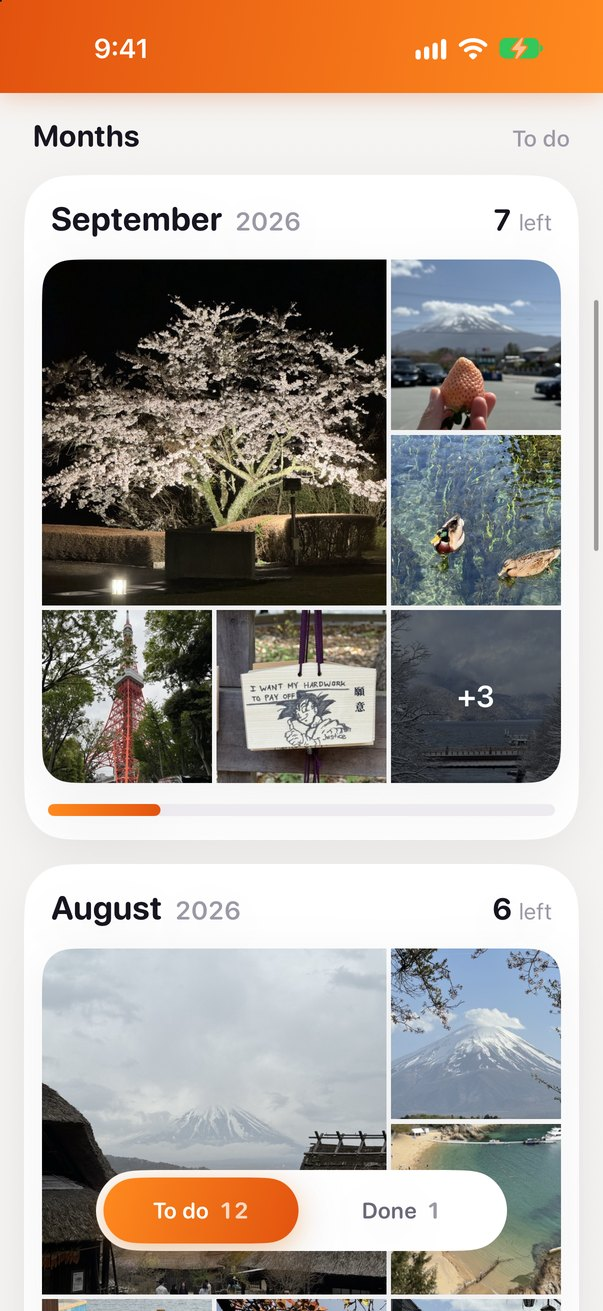
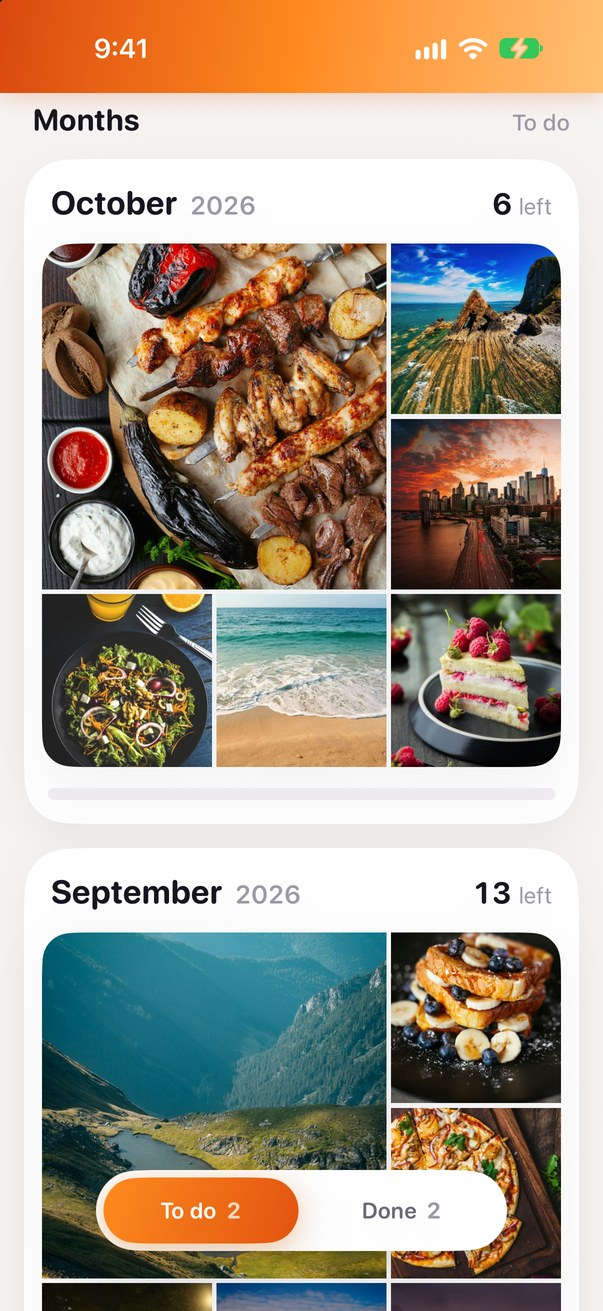
Marketing shots from the stock-only simulator, Unsplash credits
All README screenshots, the palettes strip and the four landing-page shots
(new v18-*) are retaken on the 'iPhone 18 Pro Marketing' simulator, which
holds only Unsplash photos and neutral albums (Trips, Views, Food). The old
palettes strip still showed a private album name. v16/v17 shots stay in git
but are kept off the live site. NOTICE.md lists the 39 photographers.

diff --git a/site/index.html b/site/index.html
@@ -303,10 +303,10 @@
     <div class="wrap">
       <h2 class="sec-title reveal">Have a look <em>inside.</em></h2>
       <div class="shots">
-        <div class="shot reveal-up"><div class="word">Months.</div><div class="mini tilt"><img src="img/v16-months.jpg" alt="The library, split into months" loading="lazy"></div></div>
-        <div class="shot reveal-up"><div class="word">Swipe.</div><div class="mini tilt"><img src="img/v17-swipe.jpg" alt="Swiping through an album" loading="lazy"></div></div>
-        <div class="shot reveal-up"><div class="word">Review.</div><div class="mini tilt"><img src="img/v16-review.jpg" alt="The review grid before deleting" loading="lazy"></div></div>
-        <div class="shot reveal-up"><div class="word">Albums.</div><div class="mini tilt"><img src="img/v17-album.jpg" alt="An emoji album of views" loading="lazy"></div></div>
+        <div class="shot reveal-up"><div class="word">Months.</div><div class="mini tilt"><img src="img/v18-months.jpg" alt="The library, split into months" loading="lazy"></div></div>
+        <div class="shot reveal-up"><div class="word">Swipe.</div><div class="mini tilt"><img src="img/v18-swipe.jpg" alt="Swiping through an album of views" loading="lazy"></div></div>
+        <div class="shot reveal-up"><div class="word">Review.</div><div class="mini tilt"><img src="img/v18-review.jpg" alt="The review grid before deleting" loading="lazy"></div></div>
+        <div class="shot reveal-up"><div class="word">Albums.</div><div class="mini tilt"><img src="img/v18-album.jpg" alt="An emoji album of views" loading="lazy"></div></div>
       </div>
     </div>
   </section>
@@ -345,6 +345,7 @@
 <footer>
   <div class="wrap">
     <span>Made by <a href="https://www.warrenlimzf.com/" target="_blank" rel="noopener">Warren Lim</a> with Claude Code.</span>
+    <span>Demo photos from <a href="https://github.com/warrenlimzf/photo-swipe/blob/main/NOTICE.md" target="_blank" rel="noopener">Unsplash photographers</a>.</span>
     <a href="https://github.com/warrenlimzf/photo-swipe" target="_blank" rel="noopener">github.com/warrenlimzf/photo-swipe</a>
   </div>
 </footer>

diff --git a/NOTICE.md b/NOTICE.md
@@ -1,0 +1,51 @@
+# Notice
+
+## Demo photos
+
+Every photo in the README screenshots (`docs/screenshots/`) and on the landing page (`site/img/photos/`, `site/img/v18-*`) comes from [Unsplash](https://unsplash.com) and is used under the [Unsplash License](https://unsplash.com/license), which allows free commercial and non-commercial use. None of them are the author's own photos. They were cropped to 3:4 and loaded into a test iPhone simulator to take the screenshots.
+
+Thanks to the 39 photographers:
+
+- [@_katishna_](https://unsplash.com/@_katishna_)
+- [@alvannee](https://unsplash.com/@alvannee)
+- [@alxndr_london](https://unsplash.com/@alxndr_london)
+- [@anna_tukhfatullina](https://unsplash.com/@anna_tukhfatullina)
+- [@baptiststandaert](https://unsplash.com/@baptiststandaert)
+- [@briewilly](https://unsplash.com/@briewilly)
+- [@bruceb_uk](https://unsplash.com/@bruceb_uk)
+- [@chetanvlad](https://unsplash.com/@chetanvlad)
+- [@cosmictimetraveler](https://unsplash.com/@cosmictimetraveler)
+- [@cristofer](https://unsplash.com/@cristofer)
+- [@filipephotographs](https://unsplash.com/@filipephotographs)
+- [@kevinoetiker](https://unsplash.com/@kevinoetiker)
+- [@l_oan](https://unsplash.com/@l_oan)
+- [@marikabellavance](https://unsplash.com/@marikabellavance)
+- [@miloweiler](https://unsplash.com/@miloweiler)
+- [@minkmingle](https://unsplash.com/@minkmingle)
+- [@miracletwentyone](https://unsplash.com/@miracletwentyone)
+- [@mrbrodeur](https://unsplash.com/@mrbrodeur)
+- [@mvdheuvel](https://unsplash.com/@mvdheuvel)
+- [@o5ky](https://unsplash.com/@o5ky)
+- [@padi26](https://unsplash.com/@padi26)
+- [@paularturotorres](https://unsplash.com/@paularturotorres)
+- [@peter_emmettt](https://unsplash.com/@peter_emmettt)
+- [@ralu_gal](https://unsplash.com/@ralu_gal)
+- [@redzeppelin](https://unsplash.com/@redzeppelin)
+- [@richardbrutyo](https://unsplash.com/@richardbrutyo)
+- [@sadmax](https://unsplash.com/@sadmax)
+- [@scaric](https://unsplash.com/@scaric)
+- [@shirrrrrro](https://unsplash.com/@shirrrrrro)
+- [@shootdelicious](https://unsplash.com/@shootdelicious)
+- [@simplethemes](https://unsplash.com/@simplethemes)
+- [@sotti](https://unsplash.com/@sotti)
+- [@timovaknar](https://unsplash.com/@timovaknar)
+- [@trapnation](https://unsplash.com/@trapnation)
+- [@tsuyoshikozu](https://unsplash.com/@tsuyoshikozu)
+- [@valentinbvs](https://unsplash.com/@valentinbvs)
+- [@vantheman](https://unsplash.com/@vantheman)
+- [@victoriakosmo](https://unsplash.com/@victoriakosmo)
+- [@whoisperi](https://unsplash.com/@whoisperi)
+
+## Code
+
+The code, design and icon are original and released under the [MIT licence](LICENSE).

diff --git a/README.md b/README.md
@@ -15,7 +15,7 @@
 <p align="center">
   <img src="docs/screenshots/library.jpg" width="23%" alt="Library: what is left to sort, quick decks and albums">
   <img src="docs/screenshots/months.jpg" width="23%" alt="Months as cards, each a mosaic of its photos">
-  <img src="docs/screenshots/swipe.jpg" width="23%" alt="Swiping through a month">
+  <img src="docs/screenshots/swipe.jpg" width="23%" alt="Swiping through an album">
   <img src="docs/screenshots/review.jpg" width="23%" alt="Reviewing photos before they are deleted">
 </p>
 
@@ -353,5 +353,7 @@ House rules, if you change it: rules go in `SwipeCore` with a test first, swipes
 The idea of sorting photos by swiping is not mine. Several App Store apps do it, and this was built after trying one of them. The code, design and icon here were made from scratch and share nothing with those apps.
 
 Released under the [MIT licence](LICENSE): use it, change it, share it, as long as the notice stays.
+
+📷 **Photo credits:** the photos in the screenshots are free stock from [Unsplash](https://unsplash.com) (Unsplash License), not my own. Every photographer is listed in [NOTICE.md](NOTICE.md).
 
 <sub>Built by <a href="https://www.warrenlimzf.com/">Warren Lim</a> with Claude Code.</sub>
